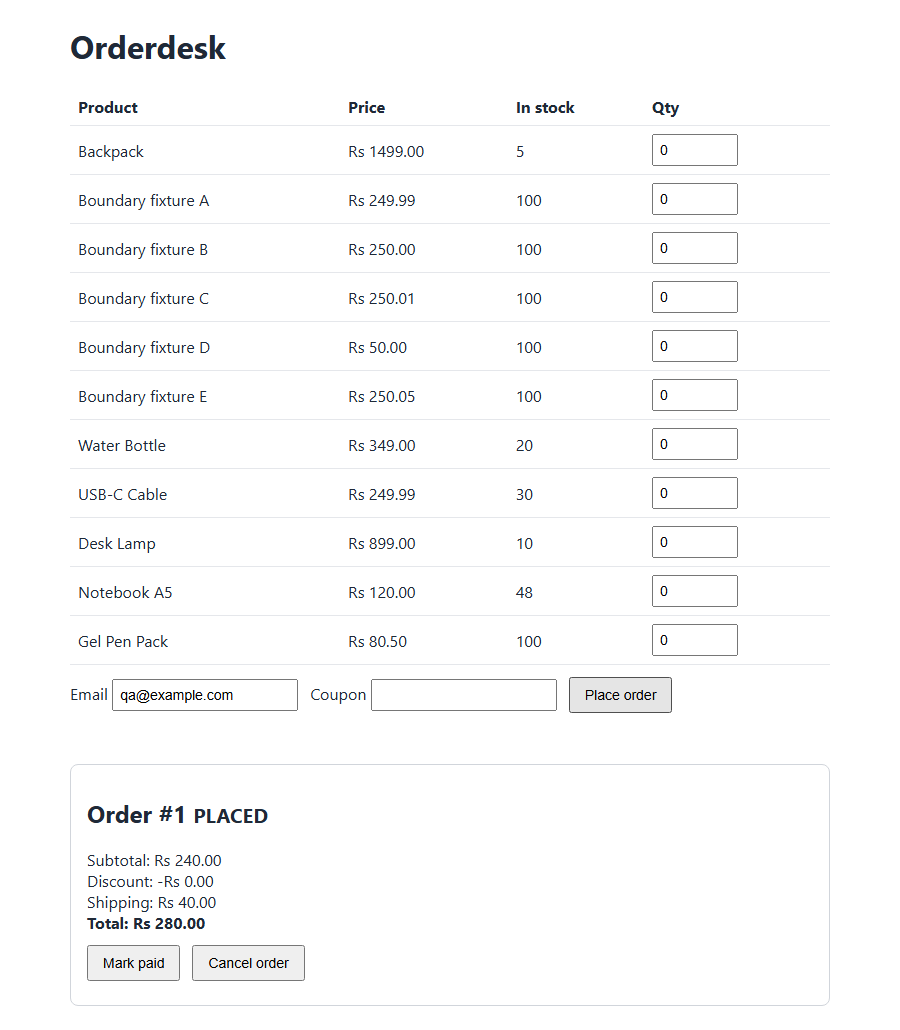
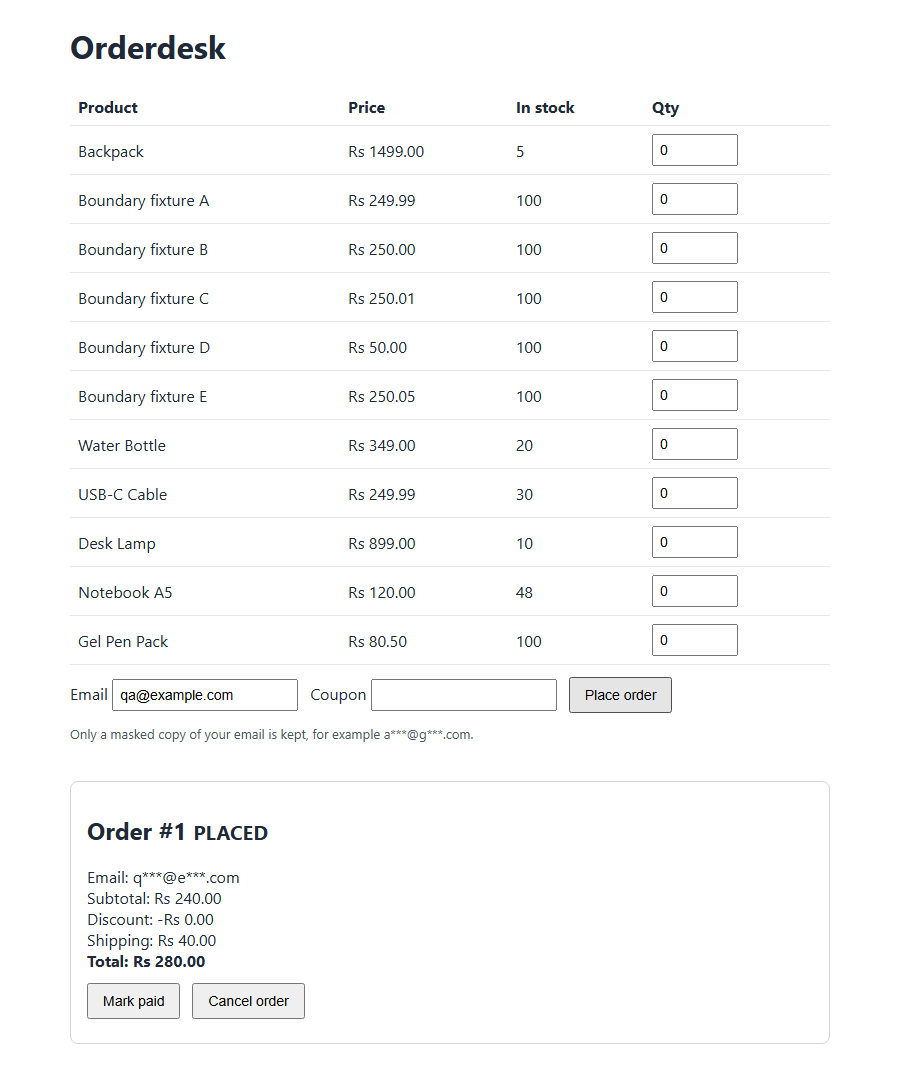
Drop demo mode: real e-mail validation with masked storage (REQ-DAT-003)

diff --git a/app/static/index.html b/app/static/index.html
@@ -13,27 +13,28 @@
   button { padding: 8px 14px; font-size: 14px; cursor: pointer; }
   .row { margin: 12px 0; display: flex; gap: 12px; align-items: center; flex-wrap: wrap; }
   .error { color: #b91c1c; min-height: 1.4em; }
-  .notice { padding: 12px; border-radius: 8px; background: #eff6ff; }
+  .hint { color: #4b5563; font-size: 13px; margin: 0; }
   #order-summary { border: 1px solid #d1d5db; border-radius: 8px; padding: 12px 16px; margin-top: 16px; }
   #order-summary[hidden] { display: none; }
 </style>
 </head>
 <body>
 <h1>Orderdesk</h1>
-<p id="demo-notice" class="notice" hidden>Interactive portfolio workspace: orders use sample data and reset when the service restarts. Do not enter personal information.</p>
 <table aria-label="Products">
   <thead><tr><th>Product</th><th>Price</th><th>In stock</th><th>Qty</th></tr></thead>
   <tbody id="products"></tbody>
 </table>
 <div class="row">
-  <label id="email-label">Email <input id="email" data-testid="email-input" type="text" autocomplete="off"></label>
+  <label>Email <input id="email" data-testid="email-input" type="text" autocomplete="off"></label>
   <label>Coupon <input id="coupon" data-testid="coupon-input" type="text" autocomplete="off"></label>
   <button id="place" data-testid="place-order">Place order</button>
 </div>
+<p class="hint">Only a masked copy of your email is kept, for example a***@g***.com.</p>
 <div class="error" id="error" data-testid="error-message" role="alert"></div>
 
 <section id="order-summary" data-testid="order-summary" hidden>
   <h2>Order <span data-testid="order-id"></span> <small data-testid="order-status"></small></h2>
+  <div>Email: <span data-testid="summary-email"></span></div>
   <div>Subtotal: <span data-testid="summary-subtotal"></span></div>
   <div>Discount: <span data-testid="summary-discount"></span></div>
   <div>Shipping: <span data-testid="summary-shipping"></span></div>
@@ -73,6 +74,7 @@ function render(order) {
   $("#order-summary").hidden = false;
   t("order-id").textContent = "#" + order.id;
   t("order-status").textContent = order.status;
+  t("summary-email").textContent = order.customer_email;
   t("summary-subtotal").textContent = inr(order.subtotal_paise);
   t("summary-discount").textContent = "-" + inr(order.discount_paise);
   t("summary-shipping").textContent = inr(order.shipping_paise);
@@ -101,16 +103,7 @@ $("#place").addEventListener("click", async () => {
 t("pay-order").addEventListener("click", () => act("pay"));
 t("cancel-order").addEventListener("click", () => act("cancel"));
 
-(async () => {
-  const config = await api("/api/config");
-  uiDefects = config.ui_defects;
-  if (config.public_demo) {
-    $("#email-label").hidden = true;
-    $("#email").value = "guest@example.test";
-    $("#demo-notice").hidden = false;
-  }
-  await loadProducts();
-})();
+(async () => { uiDefects = (await api("/api/config")).ui_defects; await loadProducts(); })();
 </script>
 </body>
 </html>

diff --git a/docs/index.html b/docs/index.html
@@ -22,7 +22,7 @@ footer{margin-top:40px;border-top:1px solid var(--line);padding-top:20px;color:v
 <nav aria-label="Project links"><a href="https://anubhavkumarkanth.github.io/retail-cancellation-leakage/">Retail dashboard</a><a href="https://sip-friction-analyzer.onrender.com">SIP simulator</a><a href="https://github.com/Anubhavkumarkanth/orderdesk-qa-suite">Source code</a></nav>
 <p class="eyebrow">QA PROJECT · PYTHON · PYTEST · PLAYWRIGHT</p>
 <h1>Orderdesk QA Suite</h1>
-<p><a href="https://orderdesk-qa-suite-live.onrender.com">Open the interactive Orderdesk workspace</a>. It uses a fixed sample customer and synthetic products; do not enter personal information.</p>
+<p><a href="https://orderdesk-qa-suite-live.onrender.com">Open the live Orderdesk app</a>. It keeps only a masked copy of any e-mail you type, for example a***@g***.com.</p>
 <p>I built a small order service and tested it at the API, database, and browser levels. The project shows how I turn requirements into checks and clear bug reports.</p>
 <div class="stats" aria-label="Project results"><div class="stat"><strong>86</strong>automated test runs</div><div class="stat"><strong>44</strong>test cases</div><div class="stat"><strong>8</strong>deliberately seeded defects detected</div></div>
 <section class="panel"><h2>What I checked</h2><ul>
@@ -33,7 +33,7 @@ footer{margin-top:40px;border-top:1px solid var(--line);padding-top:20px;color:v
 </ul><p>The clean run passed all 86 checks. Each seeded defect has a reproducible report with steps, expected and actual results, evidence, and the test that guards it.</p></section>
 <section class="panel"><h2>What the result means</h2>
 <p>I wrote the sample app, requirements, defects, and tests. Catching all eight seeded defects shows that the suite detects those fault types. It does not show that I found bugs in software written by someone else.</p>
-<p>The live workspace runs the sample API and checkout. It stores only the fixed sample customer, and its sample orders reset when the host restarts.</p></section>
+<p>The live app runs the same API and checkout page the tests use. It stores only a masked copy of each e-mail, and orders reset when the free host restarts.</p></section>
 <section><h2>Read the work</h2><p class="links">
 <a href="https://github.com/Anubhavkumarkanth/orderdesk-qa-suite">Source code and setup</a>
 <a href="https://github.com/Anubhavkumarkanth/orderdesk-qa-suite/blob/main/docs/test-plan.md">Test plan</a>

diff --git a/app/main.py b/app/main.py
@@ -12,8 +12,6 @@ from . import db, defects, pricing
 
 app = FastAPI(title="Orderdesk (application under test)", version="1.0")
 STATIC = Path(__file__).parent / "static"
-PUBLIC_DEMO = os.environ.get("ORDERDESK_PUBLIC_DEMO") == "1"
-DEMO_EMAIL = "guest@example.test"
 
 EMAIL = re.compile(r"^[^@\s]+@[^@\s]+\.[^@\s]+$")
 EMAIL_LOOSE = re.compile(r"^[^@\s]+@[^@\s]+$")  # used only when BUG-006 is active
@@ -25,6 +23,15 @@ TRANSITIONS = {  # action -> (allowed current statuses, new status)
     "deliver": (("SHIPPED",), "DELIVERED"),
     "cancel": (("PLACED", "PAID"), "CANCELLED"),
 }
+
+
+def mask_email(email: str) -> str:
+    """Keep the first character of the name and of the domain, e.g. anubhav@gmail.com -> a***@g***.com (REQ-DAT-003)."""
+    local, _, domain = email.partition("@")
+    name, dot, tld = domain.rpartition(".")
+    if not dot:  # no dot in the domain (only reachable when BUG-006 is active)
+        name = domain
+    return f"{local[:1]}***@{name[:1]}***{dot}{tld}"
 
 
 class Line(BaseModel):
@@ -47,7 +54,7 @@ def _order_json(order_id: int) -> dict:
         "SELECT sku, quantity, unit_price_paise FROM order_items WHERE order_id = ? ORDER BY id", (order_id,)
     ).fetchall()
     return {
-        "id": row["id"], "customer_email": DEMO_EMAIL if PUBLIC_DEMO else row["customer_email"], "status": row["status"], "coupon": row["coupon"],
+        "id": row["id"], "customer_email": row["customer_email"], "status": row["status"], "coupon": row["coupon"],
         "subtotal_paise": row["subtotal_paise"], "discount_paise": row["discount_paise"],
         "shipping_paise": row["shipping_paise"], "total_paise": row["total_paise"], "created_at": row["created_at"],
         "items": [dict(i) for i in items],
@@ -61,7 +68,7 @@ def health():
 
 @app.get("/api/config")
 def config():
-    return {"ui_defects": sorted(d for d in defects.active() if d == "BUG-008"), "public_demo": PUBLIC_DEMO}
+    return {"ui_defects": sorted(d for d in defects.active() if d == "BUG-008")}
 
 
 @app.get("/api/products")
@@ -72,9 +79,8 @@ def products():
 
 @app.post("/api/orders", status_code=201)
 def create_order(body: NewOrder):
-    customer_email = DEMO_EMAIL if PUBLIC_DEMO else body.customer_email
-    email_ok = (EMAIL_LOOSE if defects.on("BUG-006") else EMAIL).match(customer_email) and len(customer_email) <= 254
-    if not PUBLIC_DEMO and not email_ok:
+    email_ok = (EMAIL_LOOSE if defects.on("BUG-006") else EMAIL).match(body.customer_email) and len(body.customer_email) <= 254
+    if not email_ok:
         raise HTTPException(422, "invalid customer_email")
     if not 1 <= len(body.items) <= MAX_LINES:
         raise HTTPException(422, f"order must have 1 to {MAX_LINES} lines")
@@ -106,7 +112,7 @@ def create_order(body: NewOrder):
             cur = con.execute(
                 "INSERT INTO orders (customer_email, status, coupon, subtotal_paise, discount_paise, shipping_paise, total_paise, created_at) "
                 "VALUES (?, 'PLACED', ?, ?, ?, ?, ?, ?)",
-                (customer_email, body.coupon, totals.subtotal, totals.discount, totals.shipping, totals.total,
+                (mask_email(body.customer_email), body.coupon, totals.subtotal, totals.discount, totals.shipping, totals.total,
                  datetime.now(timezone.utc).isoformat(timespec="seconds")),
             )
             order_id = cur.lastrowid

diff --git a/scripts/make_traceability.py b/scripts/make_traceability.py
@@ -8,13 +8,15 @@ REQ = {  # test-case prefix -> requirement IDs it covers (see docs/requirements.
     "ORD": "REQ-ORD-001..003", "VAL": "REQ-VAL-001..002", "QTY": "REQ-QTY-001", "STK": "REQ-STK-001",
     "PRC": "REQ-PRC-001..007", "LIF": "REQ-LIF-001..003", "DAT": "REQ-DAT-001..002", "UI": "REQ-UI-001..003",
 }
+EXTRA = {"TC-VAL-002": "REQ-DAT-003"}  # test case -> requirement it covers beyond its prefix
 rows = []
 for path in sorted((ROOT / "tests").rglob("test_*.py")):
     for node in ast.walk(ast.parse(path.read_text(encoding="utf-8"))):
         if isinstance(node, ast.FunctionDef) and node.name.startswith("test_"):
             m = re.match(r"(TC-([A-Z]+)-\d+): (.*)", ast.get_docstring(node) or "")
             if m:
-                rows.append((m.group(1), m.group(3), REQ[m.group(2)], f"{path.relative_to(ROOT).as_posix()}::{node.name}"))
+                reqs = ", ".join(filter(None, [REQ[m.group(2)], EXTRA.get(m.group(1))]))
+                rows.append((m.group(1), m.group(3), reqs, f"{path.relative_to(ROOT).as_posix()}::{node.name}"))
 rows.sort()
 out = ["# Traceability: test case -> requirement -> automated test", "",
        "Generated by `scripts/make_traceability.py`. Do not edit by hand.", "",

diff --git a/tests/api/test_orders_api.py b/tests/api/test_orders_api.py
@@ -51,10 +51,18 @@ def test_tc_val_001_invalid_email_is_rejected(api, email):
     assert api.get("/api/orders").json() == []
 
 
-@pytest.mark.parametrize("email", ["a@b.co", "first.last+tag@example.com", "UPPER@EXAMPLE.COM"])
-def test_tc_val_002_valid_email_is_accepted(api, email):
-    """TC-VAL-002: valid e-mail forms are accepted."""
-    assert api.place([("NB-A5", 1)], email=email).status_code == 201
+@pytest.mark.parametrize("email, masked", [
+    ("a@b.co", "a***@b***.co"),
+    ("first.last+tag@example.com", "f***@e***.com"),
+    ("UPPER@EXAMPLE.COM", "U***@E***.COM"),
+])
+def test_tc_val_002_valid_email_is_accepted(api, db, email, masked):
+    """TC-VAL-002: valid e-mail forms are accepted, and only a masked copy is stored and returned."""
+    r = api.place([("NB-A5", 1)], email=email)
+    assert r.status_code == 201
+    assert r.json()["customer_email"] == masked
+    assert api.get(f"/api/orders/{r.json()['id']}").json()["customer_email"] == masked
+    assert db.execute("SELECT COUNT(*) FROM orders WHERE customer_email = ?", (email,)).fetchone()[0] == 0
 
 
 def test_tc_val_003_empty_order_is_rejected(api):

diff --git a/app/db.py b/app/db.py
@@ -1,4 +1,4 @@
-"""SQLite storage. One connection guarded by a lock keeps the demo app simple."""
+"""SQLite storage. One connection guarded by a lock keeps the app simple."""
 import os
 import sqlite3
 import threading

diff --git a/docs/traceability.md b/docs/traceability.md
@@ -42,7 +42,7 @@ Generated by `scripts/make_traceability.py`. Do not edit by hand.
 | TC-UI-006 | Cancel order sets status CANCELLED and the stock column returns to 50. | REQ-UI-001..003 | `tests/ui/test_checkout_ui.py::test_tc_ui_006_cancelling_in_the_browser_restores_the_stock_shown` |
 | TC-UI-007 | an order that has shipped cannot be cancelled from the page; the error is shown. | REQ-UI-001..003 | `tests/ui/test_checkout_ui.py::test_tc_ui_007_cancel_after_shipping_is_blocked_with_a_message` |
 | TC-VAL-001 | equivalence partitions of invalid e-mail addresses return 422 and create nothing. | REQ-VAL-001..002 | `tests/api/test_orders_api.py::test_tc_val_001_invalid_email_is_rejected` |
-| TC-VAL-002 | valid e-mail forms are accepted. | REQ-VAL-001..002 | `tests/api/test_orders_api.py::test_tc_val_002_valid_email_is_accepted` |
+| TC-VAL-002 | valid e-mail forms are accepted, and only a masked copy is stored and returned. | REQ-VAL-001..002, REQ-DAT-003 | `tests/api/test_orders_api.py::test_tc_val_002_valid_email_is_accepted` |
 | TC-VAL-003 | an order with no lines returns 422. | REQ-VAL-001..002 | `tests/api/test_orders_api.py::test_tc_val_003_empty_order_is_rejected` |
 | TC-VAL-004 | 5 lines are accepted, 6 are rejected. | REQ-VAL-001..002 | `tests/api/test_orders_api.py::test_tc_val_004_line_count_boundary` |
 | TC-VAL-005 | the same SKU twice in one order returns 422. | REQ-VAL-001..002 | `tests/api/test_orders_api.py::test_tc_val_005_duplicate_sku_is_rejected` |

diff --git a/README.md b/README.md
@@ -4,8 +4,8 @@
 
 A small order-processing application (FastAPI + SQLite + one HTML checkout page) and the test suite I wrote for it: **86 automated tests across API, database and browser layers**, a written test plan, requirement-to-test traceability, and reproducible bug reports.
 
-## Live interactive app
-Try the [Orderdesk interactive workspace](https://orderdesk-qa-suite-live.onrender.com). It uses a fixed sample customer and synthetic products, never stores a visitor's email, and resets sample orders when the free host restarts. Please do not enter personal information. This is a portfolio sandbox, not a production store.
+## Live app
+[Open Orderdesk](https://orderdesk-qa-suite-live.onrender.com): the same API and checkout page the tests run against, with real e-mail validation. It keeps only a masked copy of the e-mail you type (`anubhav@gmail.com` is stored as `a***@g***.com`), so no full address is ever stored or shown. Orders reset when the free host restarts, and the first visit after a quiet spell can take up to a minute.
 
 The application contains **8 defects that I seeded deliberately** and can switch on one at a time. That lets the repository show the whole defect cycle with real evidence: reproduce, report, fix, and prove a test now guards it.
 

diff --git a/docs/requirements.md b/docs/requirements.md
@@ -23,6 +23,7 @@ Orderdesk is a small order service written for this project, so the specificatio
 | REQ-LIF-003 | Transitions on a missing order are 404; an unknown action is 404. |
 | REQ-DAT-001 | Stored totals are internally consistent (`total = subtotal - discount + shipping`; `subtotal = sum(quantity x unit price)`). |
 | REQ-DAT-002 | Stock is conserved: `stock + units in non-cancelled orders = initial stock`; stock is never negative; foreign keys are consistent. |
+| REQ-DAT-003 | The full `customer_email` is never stored or returned. Orders keep only a masked copy: the first character of the name and of the domain, then `***`, then the last part of the domain (`anubhav@gmail.com` becomes `a***@g***.com`). |
 | REQ-UI-001 | The checkout page shows the catalogue with live stock, places orders, and shows the order summary exactly as the API returns it (subtotal, discount, shipping, total). |
 | REQ-UI-002 | Validation errors from the API are shown to the user; the summary stays hidden. |
 | REQ-UI-003 | The page can mark an order paid and cancel it, and the stock column refreshes after each action. |
